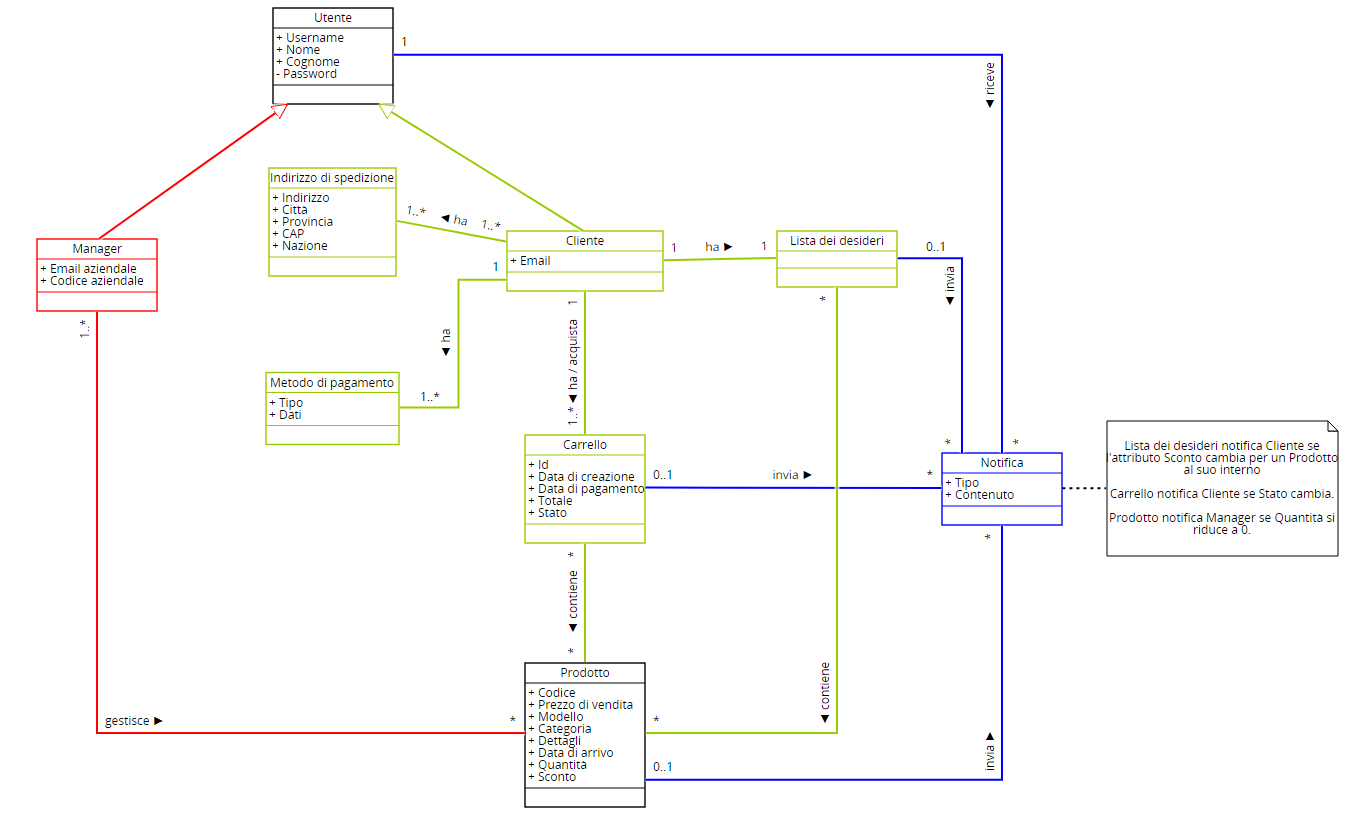
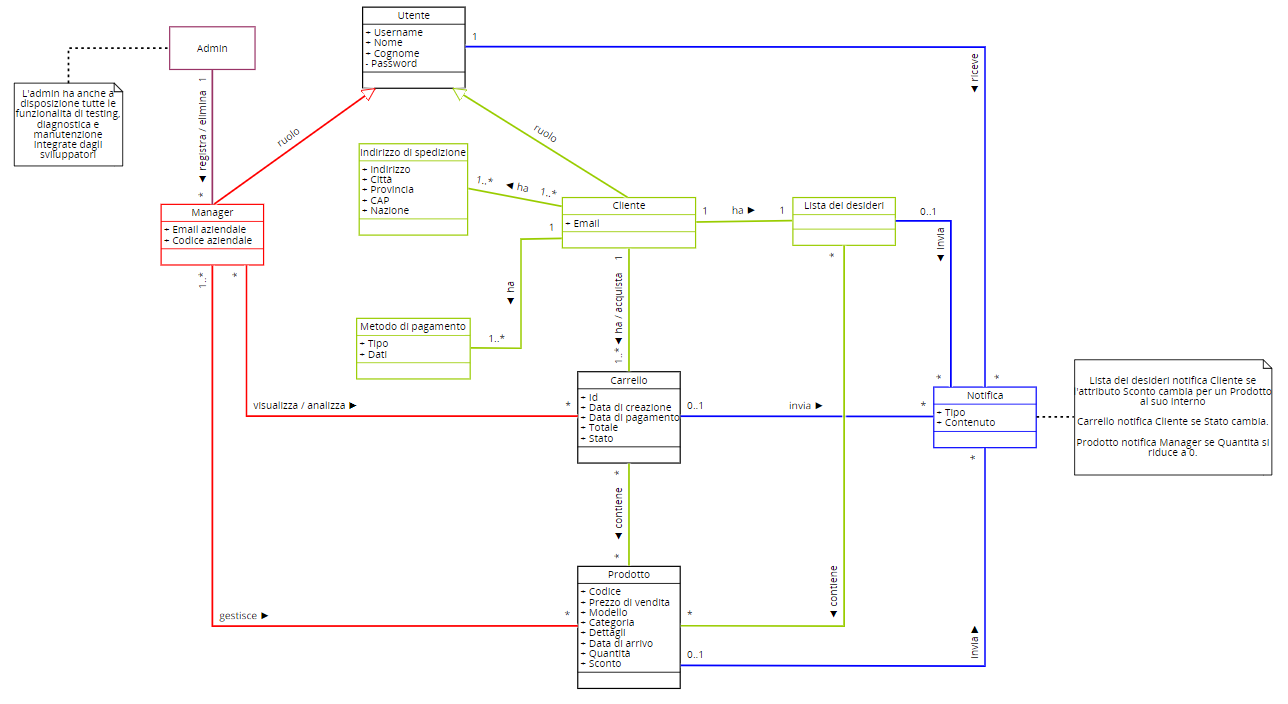
feat: requisiti funzionali admin in V2, update: glossario V2

diff --git a/RequirementsDocumentV2.md b/RequirementsDocumentV2.md
@@ -107,12 +107,13 @@ Storia: vuole regalare a suo figlio una console da gioco, <u>spedendola ad un in
 | FR1.2| Logout di un utente registrato                                                        |
 | FR1.3| Possibilità di ottenere le informazioni relative all'utente correntemente loggato     |
 | **FR2**| **Gestione degli utenti**                                                           |
-| FR2.1| Registrazione di un nuovo utente                                                      |
-| FR2.2| Modifica informazioni utente: username di un cliente loggato                          |
-| FR2.3| Modifica informazioni utente: email di un cliente loggato                             |
-| FR2.4| Modifica informazioni utente: password di un utente loggato                           |
-| FR2.5| Eliminare il proprio profilo ******** (AGGIUNTO)                                      |
-| FR2.6| Elimina profilo utente                                                                |
+| FR2.1| Registrazione di un nuovo cliente                                                     |
+| FR2.2| Registrazione di un nuovo manager                                                     |
+| FR2.3| Modifica informazioni utente: username di un cliente loggato                          |
+| FR2.4| Modifica informazioni utente: email di un cliente loggato                             |
+| FR2.5| Modifica informazioni utente: password di un utente loggato                           |
+| FR2.6| Eliminazione del proprio profilo ******** (AGGIUNTO)                                   |
+| FR2.7| Eliminazione di un manager registrato                                                 |
 | **FR3**| **Gestione dei prodotti**                                                           |
 | FR3.1| Visualizzazione di tutti i prodotti                                                   |
 | FR3.2| Visualizzazione delle informazioni di un prodotto                                     |
@@ -995,7 +996,6 @@ Storia: vuole regalare a suo figlio una console da gioco, <u>spedendola ad un in
 
 - Utente
   - Persona registrata al sistema
-  - Può visualizzare i prodotti
   - Può avere ruolo di cliente o di manager
   - Riceve notifiche diverse in base al suo ruolo
 - Cliente
@@ -1007,8 +1007,13 @@ Storia: vuole regalare a suo figlio una console da gioco, <u>spedendola ad un in
   - Dispone di una (e una sola) lista dei desideri a cui aggiungere prodotti a cui è interessato
 - Manager
   - Utente responsabile del negozio fisico
-  - Dispone di una email aziendale verificata in fase di registrazione e di un codice aziendale univoco
+  - Dispone di una email aziendale e di un codice aziendale univoco, verificati durante la registrazione per mano dell'admin
   - Ogni manager ha la possibilità di gestire (aggiungere, rimuovere, registrare una nuova fornitura, registrare uno sconto, ...) i prodotti sul sito web
+  - Ogni manager può visualizzare i carrelli acquistati dai clienti e ottenere informazioni sulle vendite 
+-Admin
+  - Amministratore aziendale del sistema
+  - Incaricato di registrare gli account per i manager
+  - Ha a disposizione gli strumenti di testing e diagnostica messi a disposizione dal team di sviluppo
 - Prodotto
   - Prodotto in vendita sul sito web
   - Il codice di un prodotto è legato al modello/variante del prodotto e le relative unità disponibili in magazzino sono tracciate mediante l'attributo "Quantità" (a differenza di V1, per cui ogni singolo prodotto aveva un codice univoco)
